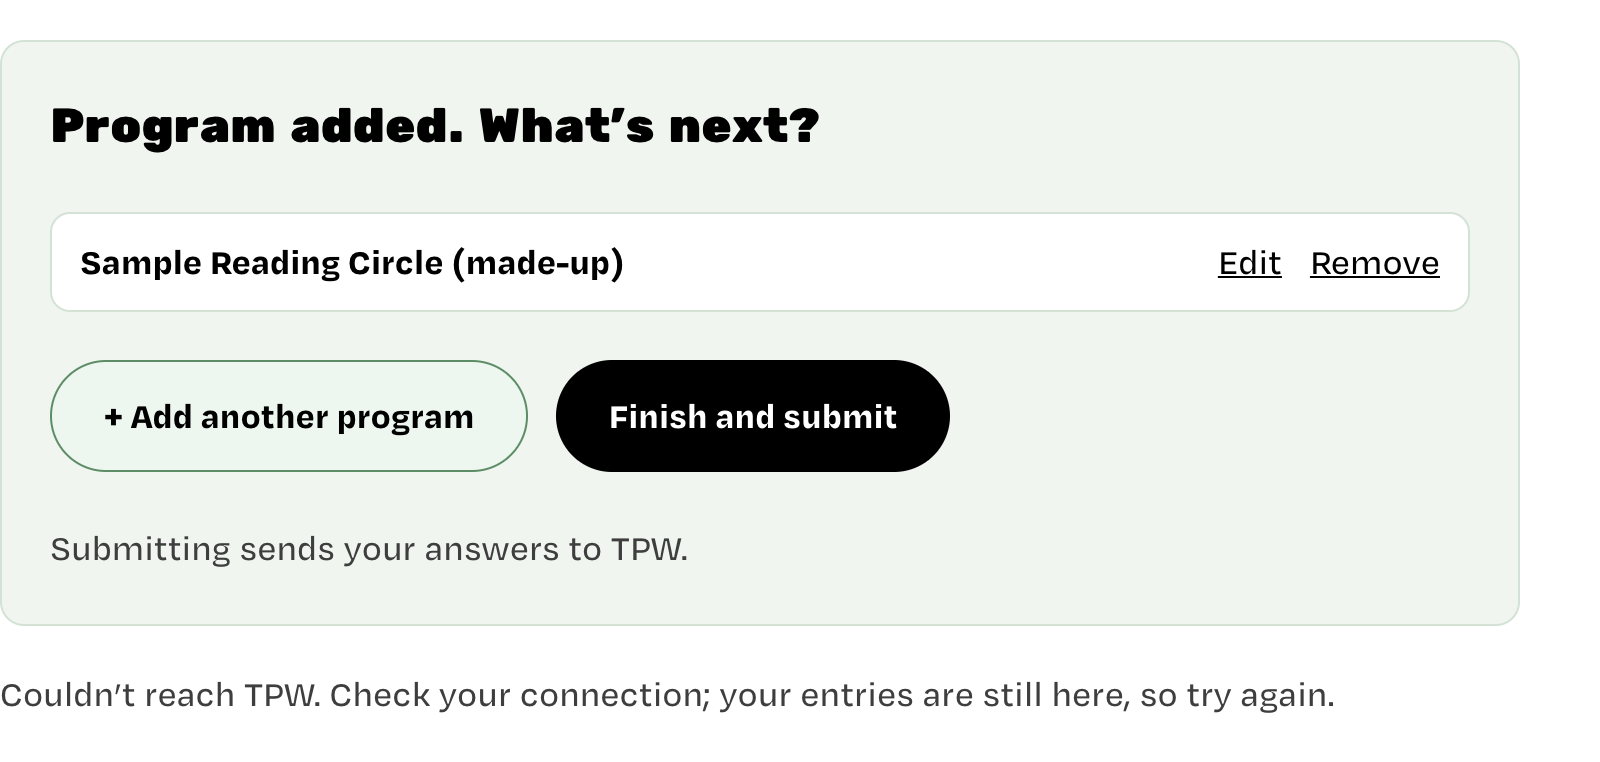
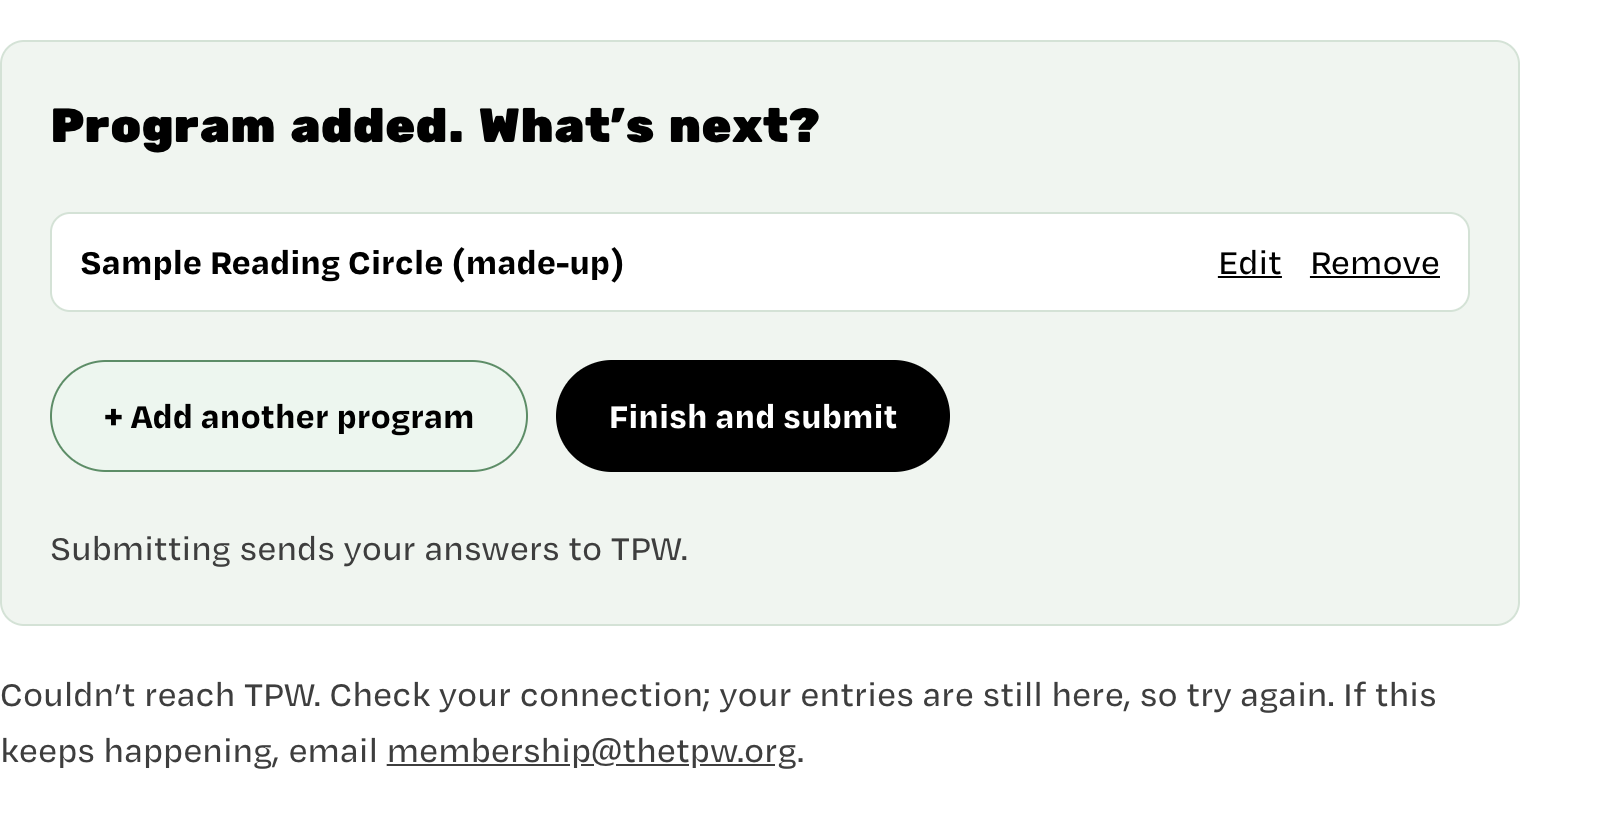
docs: retake staff guide screenshots after the yard list and Data-tab changes
Yards are now a fixed list with a Yard not listed? box, the Data link only
shows for the TPW staff view, and form errors give membership@thetpw.org.
The dashboard's read of the sheet is stubbed, so no real rows were read.

diff --git a/docs/staff-guide-screenshots/README.md b/docs/staff-guide-screenshots/README.md
@@ -9,17 +9,17 @@ Taken on 25 October 2026 from `main` (after the Session tab was removed, Firebas
 | File | What it shows |
 |---|---|
 | `door_signin.png` | Members Login opening a copy of TPW's own sign-in box. On the demo site you pick Org 1, Org 2 or TPW staff, and no password is checked |
-| `door_logdata.png` | The Log data page when no one is signed in: the Quarterly totals tab, step 1 of the form |
+| `door_logdata.png` | The Log data page when no one is signed in: the Quarterly totals tab, step 1 of the form. Only the Log data and Dashboard links show. The Data link appears for the TPW staff view |
 | `door_checkin.png` | Log data for a sample organization: the form starts from last quarter's report and asks only for this quarter's numbers |
 | `form_org.png` | Step 1: the organization's name |
-| `form_prisons.png` | Step 2: choosing a prison and its yards |
+| `form_prisons.png` | Step 2: choosing a prison and its yards, including the Yard not listed? box for adding one |
 | `form_prog_a.png` | Step 3: program name, prisons and yards |
 | `form_prog_b.png` | Step 3: status, start and end dates, course hours |
 | `form_prog_c.png` | Step 3: participants started and completed at each yard, notes |
 | `form_next.png` | After a program is added: add another, or finish and submit |
 | `form_receipt.png` | The receipt after a successful submission |
 | `form_error_numbers.png` | The message when completed is higher than started |
-| `form_error_connection.png` | The message when the connection drops on submit |
+| `form_error_connection.png` | The message when the connection drops on submit, with the membership@thetpw.org address to email |
 | `dashboard.png` | The Dashboard page. It reads TPW's Google Sheet plus the made-up sample organizations. For the picture the sheet read was stubbed out, so only the sample organizations show |
 | `datapage.png` | The Data page as someone with access sees it: the Google Sheet shown inside the website. Taken while the workbook was still open to anyone with its link; it is private now, so someone signed out sees a Google sign-in prompt instead |
 | `sheet_strip_a.png`, `sheet_strip_b.png`, `sheet_strip_c.png` | The main tab's columns A to G, H to M and N to R, first rows. Taken before the sheet gained its Test data column at the far right, and not retaken because the workbook is private now |
